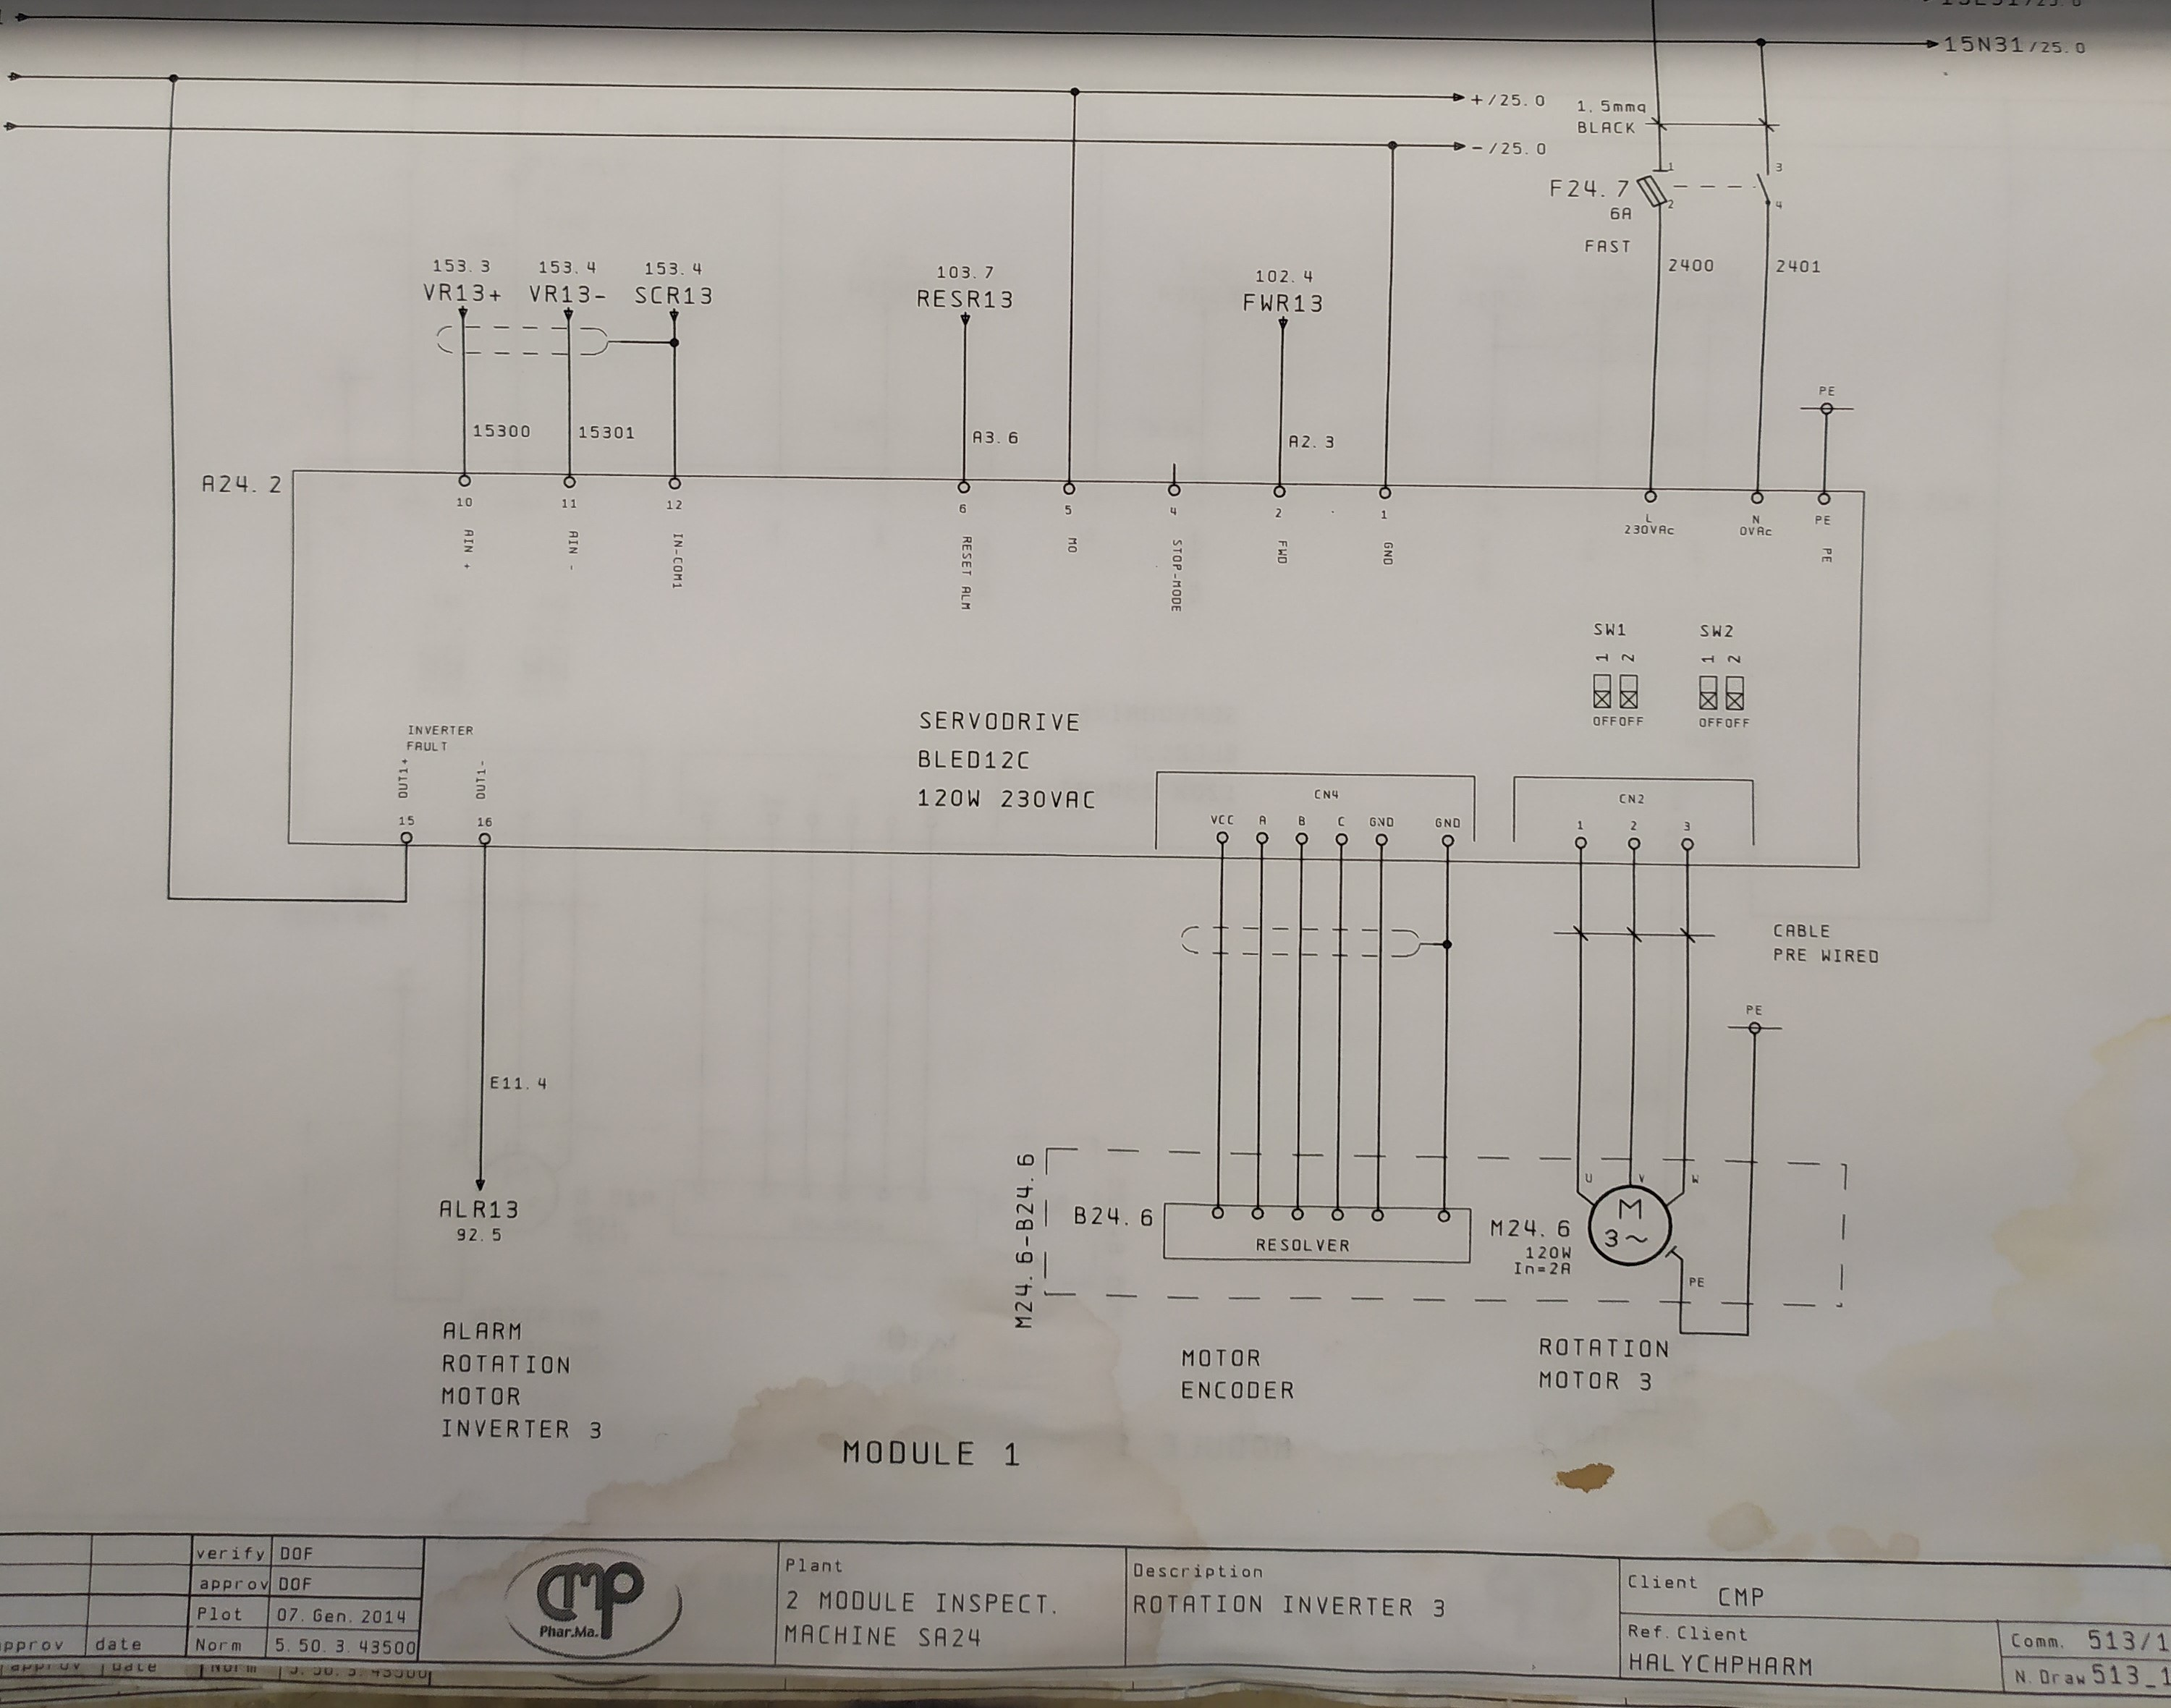
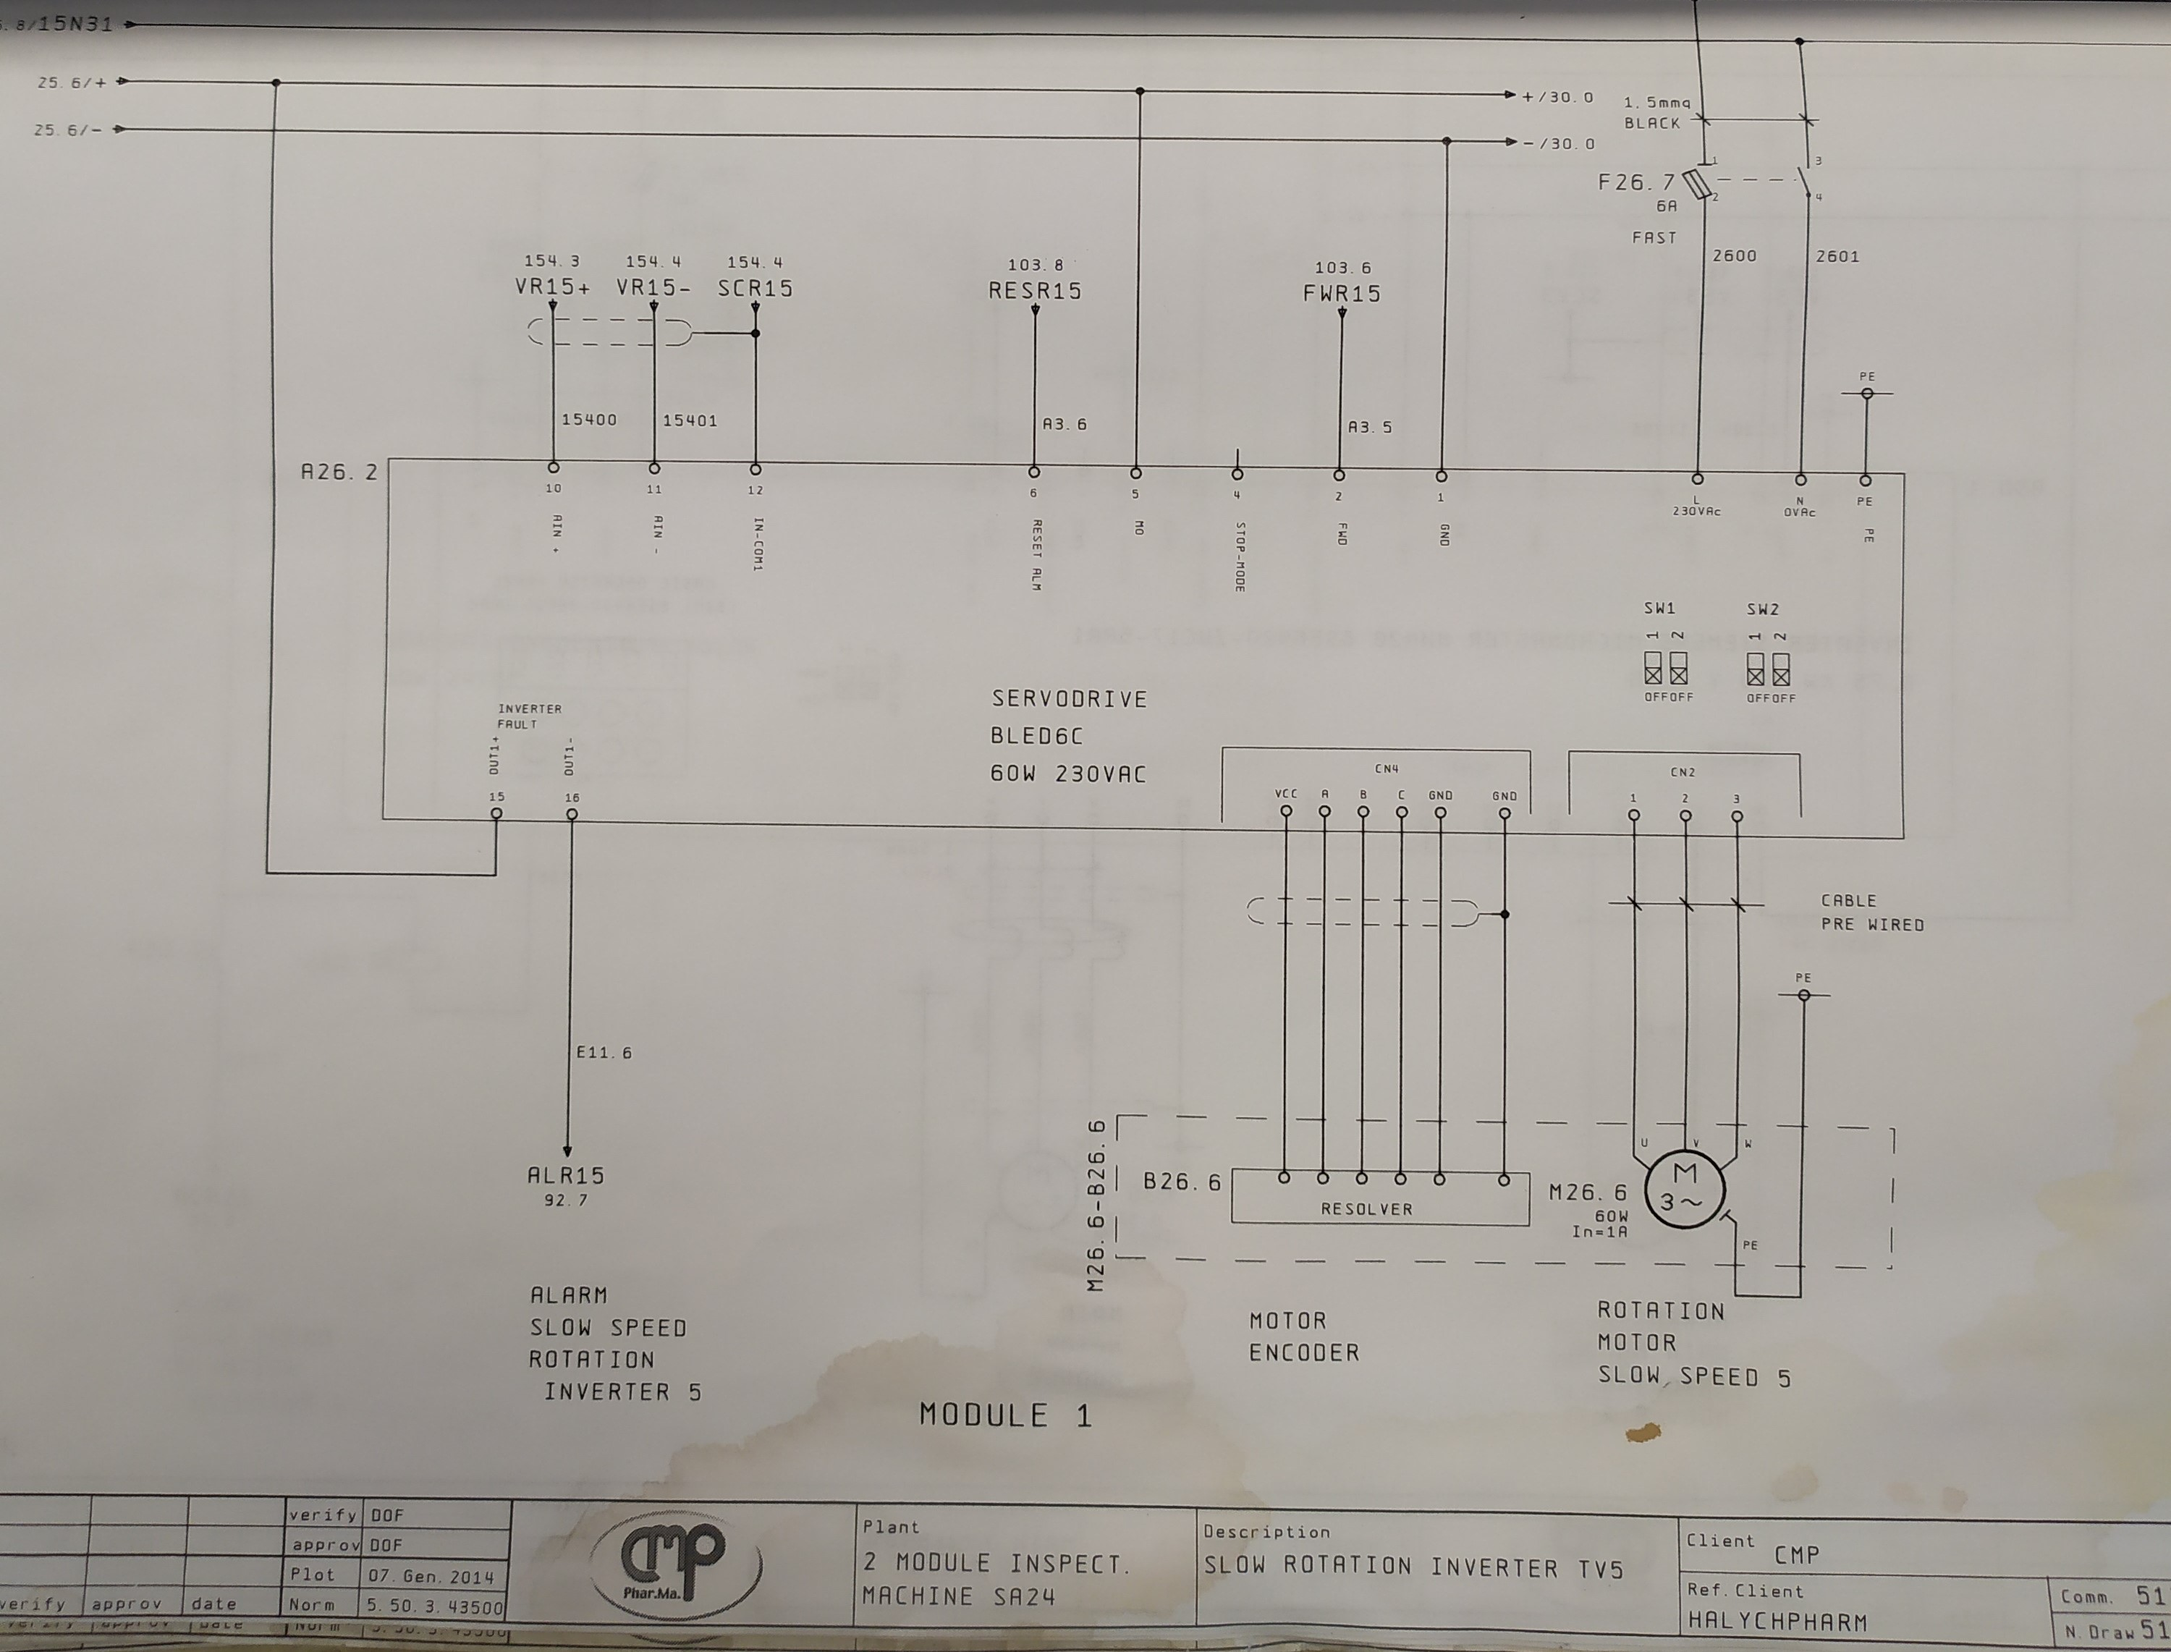
add explanation to the diagram

diff --git a/src/data/work/screen.js b/src/data/work/screen.js
@@ -263,70 +263,85 @@ X4 2212 — клемник
   {
     id: 55,
     title: 'Схема серводрайвера (інвертора) + двигуна + датчика положення',
-    requirements: ['', ''],
+    requirements: ['Для повільного обертання', ''],
     images: [img('images/el_schema/schema_5.jpg')],
-    starterCode: `Головний блок:
-SERVODRIVE BLED12C (120W, 230VAC)
-⚡ 2. Живлення (праворуч зверху)
-Тут уже не 24В, а:
-230VAC
-N (нуль)
+    starterCode: `
+25.6 + / 25.6 - та + 30 / – 30 (це позначення електричних шин / потенціалів / ліній)
+Лінія 25.6 — це номера проводів де (напруга/сигнал приходить з іншого місця схеми)
+25.6 → звідки приходить, 30.0 → куди йде далі.
+👉 У шафі це один і той самий провід/шина, просто:
+на одній схемі вона називається 25.6
+на іншій — 30.0
+Живлення праворуч зверху:
+ 230VAC, через F26.7 (6A) — запобіжник
+0VAC (N)
 PE (земля)
-Через:
-F24.7 (запобіжник 6А)
-👉 це силове живлення інвертора
-🎛 3. Керування (верхня частина)
-Входи в драйвер:
-FWD (Forward) → обертання вперед
-STOP MODE → режим зупинки
-RESET ALARM → скидання помилки
-Через:
-контакти типу FWR13, RESR13
-🔄 4. Інвертор (центр)
+👉 це живлення серводрайвера
+📦 3. Серводрайвер
+Центр:
+👉 SERVODRIVE BLED6C (60W)
+Це:
+керує двигуном
+приймає сигнали
+читає енкодер
+🎛 4. Входи (верх)
+Основні сигнали:
+▶ FWR15
+Forward
+команда “крути вперед”
+⛔ STOP MODE
+режим зупинки
+🔄 RESR15
+Reset Alarm
+скидання помилки
+🔌 VR15 / SCR15
+це керуючі елементи (регулятор / тиристор або сигнал керування)
+⚙ 5. Двигун
+Праворуч внизу:
+👉 M26.6 — 60W
+трифазний (3~)
+підключення:
+U, V, W
+PE
+📡 6. Resolver (датчик)
 Блок:
-SERVODRIVE
-Всередині:
-приймає команди
-керує мотором
-читає положення двигуна
-⚙ 5. Двигун (праворуч внизу)
-Позначення:
-👉 M 3~ 120W
-Підключення:
-U / V / W — фази
-PE — заземлення
-📡 6. Енкодер / резольвер (ВАЖЛИВО)
-Оце головна різниця 👇
-Блок:
-👉 RESOLVER (Motor Encoder)
+👉 B26.6 — RESOLVER
 Піни:
-A, B, C, D, GND
-👉 він:
-передає позицію двигуна
-дозволяє точне керування (серво)
-⚠ 7. Аварія
+VCC — живлення
+A, B, C, D — сигнали
+GND — земля
+👉 дає зворотний зв’язок
+🔗 7. Роз’єми
+CN4 — підключення енкодера
+CN2 — підключення двигуна
+⚠ 8. Аварія
 Зліва:
-ALARM ROTATION MOTOR INVERTER 3
-👉 якщо:
-помилка інвертора
-або проблема з двигуном
-→ йде сигнал аварії
-🔗 8. З’єднання
-2400, 2401 — номери проводів
-CN2, CN4 — роз’єми
-SW1, SW2 — перемикачі
-🧠 Як читати саме цю схему (алгоритм)
-🔌 Живлення → 230V через запобіжник
-📦 Інвертор → головний блок
-🎛 Керування → FWD, STOP, RESET
-⚙ Двигун → U V W
-📡 Енкодер → зворотний зв’язок
-⚠ Аварія → сигнал назовні
-🔥 Головна ідея
-👉 Це вже не просто мотор, а сервосистема:
-інвертор керує
-двигун крутиться
-енкодер каже “де він зараз”`,
+👉 ALR15
+Це:
+вихід аварії
+якщо інвертор падає → сигнал іде сюди
+🔢 9. Номери проводів
+2600, 2601
+15400, 15401
+👉 це просто ідентифікатори кабелів у шафі
+🧠 10. Як це працює (логіка)
+Подали 230В
+Інвертор включився
+Отримав сигнал:
+FWR → старт
+Запустив мотор
+Resolver каже:
+де вал
+Якщо щось не так → ALR15
+🔥 11. Простий переклад всієї схеми
+👉 Це:
+інвертор керує мотором
+мотор крутиться повільно
+датчик контролює положення
+система ловить помилки
+✔ Головне що треба запам’ятати
+👉 Ця схема =
+Живлення → Серводрайвер → Сигнали → Двигун → Resolver → Аварія`,
     solution: ``,
     description: ``,
   },
